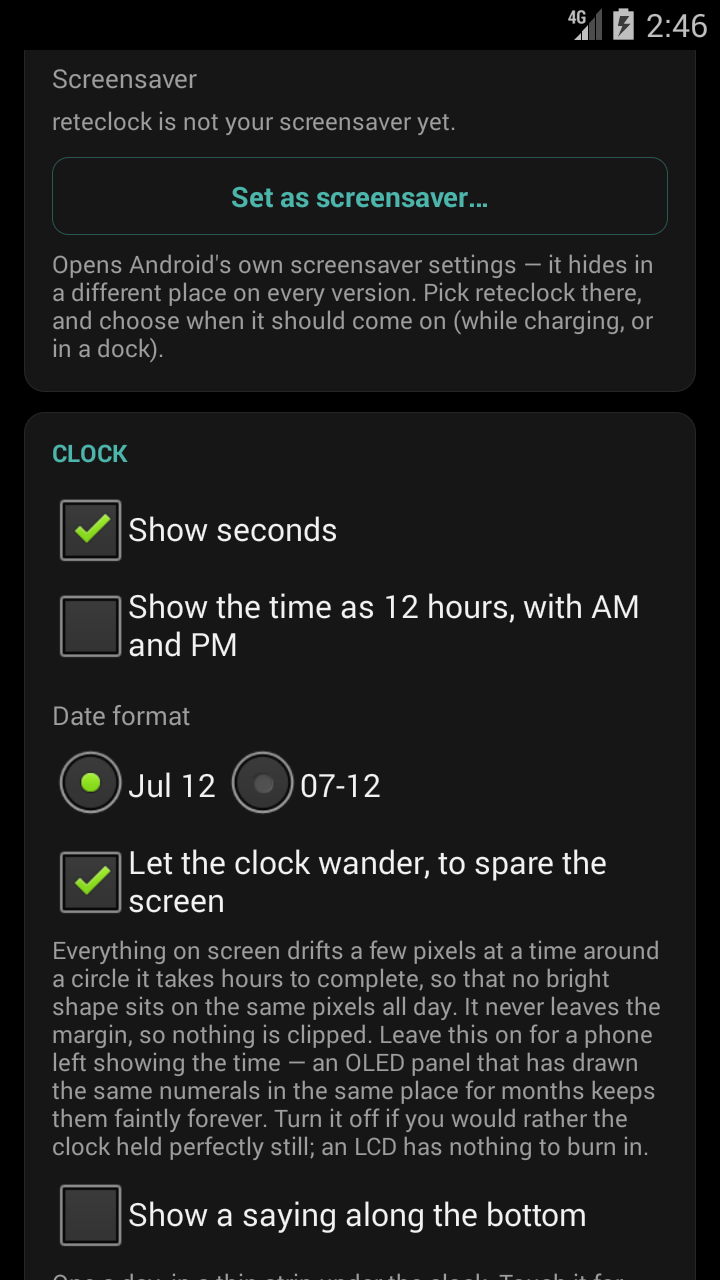
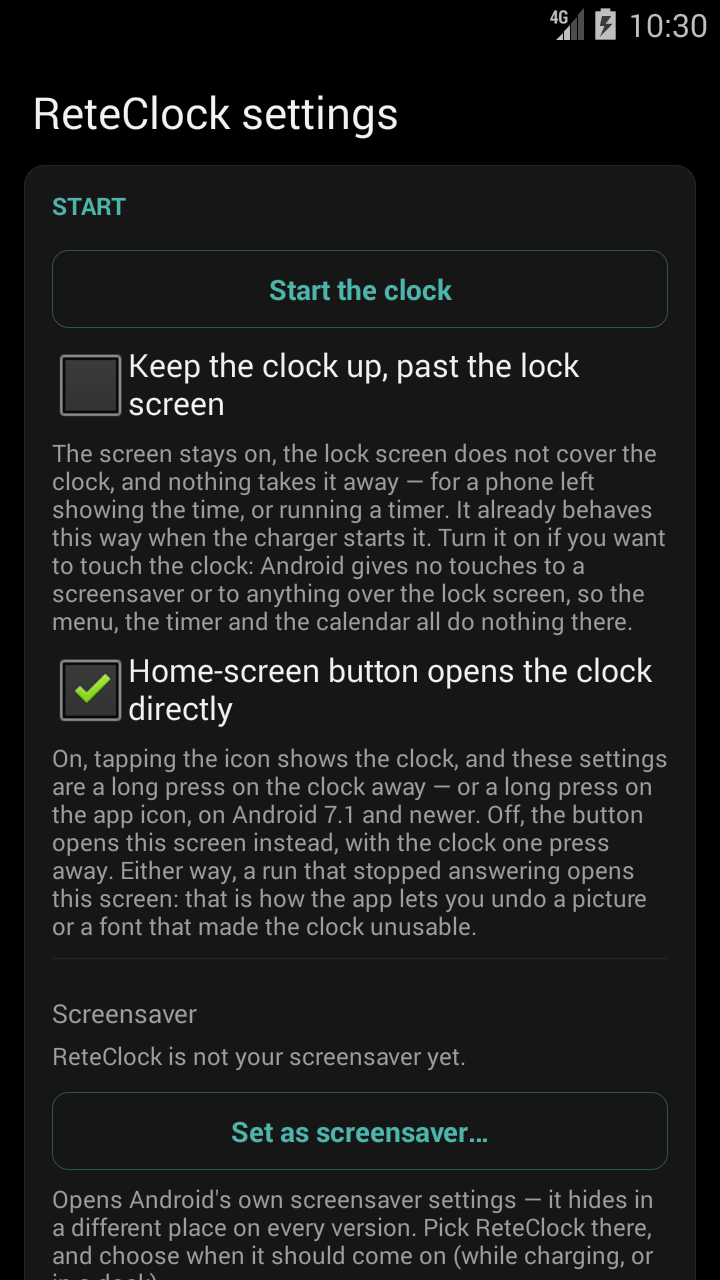
Release 0.55.0

Changed region(s): [[0.0306, 0.0312, 0.9167, 1.0], [0.7639, 0.0, 0.9778, 0.0312]]

diff --git a/README.md b/README.md
@@ -1,4 +1,4 @@
-[한국어](README.ko.md) | **English** — **reteclock v0.54.0** — [APK(Android 2.3+)](https://github.com/rubidus-api/reteclock_apk/releases/download/v0.54.0/reteclock-0.54.0.apk) · [F-Droid](https://f-droid.org/packages/com.reteclock/)
+[한국어](README.ko.md) | **English** — **reteclock v0.55.0** — [APK(Android 2.3+)](https://github.com/rubidus-api/reteclock_apk/releases/download/v0.55.0/reteclock-0.55.0.apk) · [F-Droid](https://f-droid.org/packages/com.reteclock/)
 
 # reteclock
 
@@ -13,10 +13,12 @@ so the numbers never burn into an OLED screen.
 
 There is nothing to sign up for and nothing to configure. It needs no account, no network and no
 Play Store, so it still works on phones that can no longer install anything else. It is small —
-about 500 KB — and asks for four normal permissions, all granted at install: one to keep the screen
+about 675 KB — and asks for five normal permissions, all granted at install: one to keep the screen
 awake, one to vibrate, which only the timer and the bells use, one for a foreground service — while
 a timer sounds with the screen off, or an alarm rings — and one that only *Alarms (experimental)*
-uses, starting after a restart, which stays unused until you turn that page's switch on.
+uses, starting after a restart, which stays unused until you turn that page's switch on. The fifth,
+`INTERNET`, serves the optional local web administrator, which is off until you turn it on; the
+app never opens a connection of its own.
 
 > **If the clock does not answer your touch, it is not the clock.** Android does not pass touches to
 > a screensaver (Daydream) or to anything showing over the lock screen — the first touch wakes the
@@ -30,8 +32,8 @@ uses, starting after a restart, which stays unused until you turn that page's sw
 
 **[⬇ Get it on F-Droid](https://f-droid.org/packages/com.reteclock/)** — recommended.
 
-**[⬇ Download reteclock-0.54.0.apk](https://github.com/rubidus-api/reteclock_apk/releases/download/v0.54.0/reteclock-0.54.0.apk)**
-— 614 KB, installs on Android 2.3 and newer. This is the file itself, so an old browser that cannot
+**[⬇ Download reteclock-0.55.0.apk](https://github.com/rubidus-api/reteclock_apk/releases/download/v0.55.0/reteclock-0.55.0.apk)**
+— 675 KB, installs on Android 2.3 and newer. This is the file itself, so an old browser that cannot
 render GitHub's release page can still fetch it.
 
 The newest release is always at
@@ -135,7 +137,7 @@ it needs beyond keeping the screen awake. Copy the APK to the phone, open it, an
 
 ## Which phones it runs on
 
-Published on F-Droid; the latest release is 0.54.0.
+Published on F-Droid; the latest release is 0.55.0.
 
 | | |
 |---|---|
@@ -222,7 +224,7 @@ its own *Show a background* switch — a monthly calendar on a plain ground, the
 instance. Upright and sideways have their own lists. The show keeps time with the clock, so opening
 the menu does not start it over.
 
-<img src="docs/screenshots/settings.png" alt="Settings: the screensaver row at the top, then show seconds, the twelve-hour option, the date format side by side, and the switch that lets the clock wander" width="240"> <img src="docs/screenshots/fields.png" alt="The Fonts page: the font library with each font's size and the total, then each field on two lines — its name with bold, italic, underline and outline, and its font — including AM / PM and the calendar's three parts" width="240">
+<img src="docs/screenshots/settings.png" alt="The settings page: Start the clock, the switch that keeps the clock up past the lock screen, the home-screen button choice, and the screensaver row" width="240"> <img src="docs/screenshots/fields.png" alt="The Fonts page: the font library with each font's size and the total, then each field on two lines — its name with bold, italic, underline and outline, and its font — including AM / PM and the calendar's three parts" width="240">
 
 In the order they appear on the screen.
 
@@ -376,6 +378,8 @@ nothing extra drawn.
 
 Its own screen, reached from the main menu.
 
+<img src="docs/screenshots/volume.png" alt="The Volume card: Mute all sounds, the Sound, Vibrate and Silent tabs with the phone's own mode marked, and a level, Mute, Vibrate and Test for timer sounds, timer messages, the spoken time and bells" width="240">
+
 - **Bring in sounds of your own** — the same way fonts and pictures arrive: the phone's own file
   picker hands the file over, and the app keeps a copy of it. **No storage permission is asked for**,
   on any version of Android, and a sound that is in stays in — nothing can take it away later.
@@ -419,7 +423,10 @@ Its own screen, reached from the main menu.
   pictures and the sounds beside it under `fonts/`, `img/` and `sounds/` — what you want when the
   other phone has none of them. Either way you tick which pages to carry first, and the package has
   its own three ticks for the fonts, the pictures and the sounds.
-- **Import** — the file is **read first and applied second**. You are shown what is in it — how
+- **Import** — all or nothing (since 0.55.0): a line that is not a setting, a setting given twice,
+  a value that is not allowed or an unsafe file refuses the whole import, changes nothing, and tells
+  you which line, setting or file it was. Begin a note of your own with `#`. Settings this version
+  does not know are passed over. Otherwise the file is **read first and applied second**. You are shown what is in it — how
   many settings for each page, which fonts and pictures came along, and anything that could not be
   understood — and you tick what to bring in. What it shows is not the file's own text but the
   file **as this app read it**: rebuilt from what was understood, with values in the form they will
@@ -654,10 +661,10 @@ Nothing below is needed to use the app.
 Java and the Android framework, nothing else. Built with the Android SDK command-line tools
 (`aapt2`, `javac`, `d8`, `zipalign`, `apksigner`) driven by POSIX shell scripts. No Gradle. No
 AndroidX, no support library, no Kotlin runtime and no third-party dependency — a single
-`classes.dex` and an APK of about 500 KB. It is signed with the v1 (JAR) scheme so old phones
-accept it, plus v2 and v3 for current ones, and it holds four normal permissions (`WAKE_LOCK`,
+`classes.dex` and an APK of about 675 KB. It is signed with the v1 (JAR) scheme so old phones
+accept it, plus v2 and v3 for current ones, and it holds five normal permissions (`WAKE_LOCK`,
 `VIBRATE` for the timer, `FOREGROUND_SERVICE` for the timer with the screen off and for the
-experimental alarms, and `RECEIVE_BOOT_COMPLETED` for those alarms, whose components ship disabled), all granted at install and never requested at runtime.
+experimental alarms, `INTERNET` for optional local web administration, and `RECEIVE_BOOT_COMPLETED` for those alarms, whose components ship disabled), all granted at install and never requested at runtime.
 
 ### Build
 
@@ -698,3 +705,48 @@ perfectly good reading. Say it however you like; the clock does not mind.
 ## License
 
 MIT. See `LICENSE`.
+
+## Web administration (experimental)
+
+Since 0.55.0, off until you turn it on. A browser on the same local network can change the clock's
+settings and move files in and out, which is easier than a small touch screen for a long list of
+bells or a layout.
+
+| On the clock | In the browser |
+|---|---|
+| <img src="docs/screenshots/web-device.png" alt="The Web administration page on the device: the warning, the switch, the administrator ID, password and port, and the address the clock is listening on" width="240"> | <img src="docs/screenshots/web-login.png" alt="The login page in a browser: administrator ID and password, with the note that HTTP does not encrypt" width="420"><br><img src="docs/screenshots/web-admin.png" alt="The administration page in a browser after login: the settings pages along the top and the General settings below" width="420"> |
+
+**Setting it up.** Long-press the clock and open **Web administration (experimental)**. Set an
+administrator ID, a dedicated password (8–128 UTF-8 bytes) and a port (8080 by default), switch it
+on and save. The page then shows the address to open from another device, and you log in there.
+
+**When it runs.** Only while the clock, the screensaver or one of the app's settings pages is on
+screen. Leaving the app stops it and coming back starts it again; there is no background service
+and nothing starts at boot. It listens only on Wi-Fi, Ethernet and the phone's own hotspot — never
+on mobile data or a VPN — and answers only devices on that same network.
+
+**What it does.** Every user setting, including bells, timer presets, layouts, slides, calendar
+names, typography and the experiments; the stored fonts, pictures and sounds; importing settings
+files and font, theme and settings ZIPs; exporting them and the timer log. Higher image quality
+still needs the trial on the device.
+
+**Imports are all or nothing**, here and on the device alike. A line that is not a setting, a
+setting given twice, a value its setting does not take or an unsafe file refuses the whole import,
+changes nothing, and says which line, setting or file it was, so you can correct it and try again.
+Settings this version does not know are passed over. An import stops a running timer and merges
+incoming layouts with the ones you have. The limits are 64 MiB for an upload, 32 MiB a media file,
+256 KiB a text file, 128 MiB unpacked and 500 entries in a ZIP, and there must be room on the
+device. The administrator's account never travels in a settings file or an Android backup.
+
+**How the login works.** The password is turned into a key in the browser and never sent. Each
+login answers a single-use challenge, and every request after it is signed and single-use, so
+nothing captured can be replayed and a session ID alone opens nothing. Sessions end after 10 idle
+minutes or 30 minutes in all, on logout, when the server stops and when the account changes;
+reloading the page asks for the login again. Five wrong passwords from one device make that
+device wait half a minute; they do not lock anybody else out.
+
+**What it does not protect.** Plain HTTP **does not encrypt your settings and cannot stop the
+login page being altered** by somebody who controls the network. Captured logins cannot be reused,
+but a weak password can be guessed from one, offline. Use it on a network you trust, with a strong
+password used for nothing else, and never forward the port to the Internet. With the switch off —
+as it is until you turn it on — the app opens no connection and listens on nothing.
